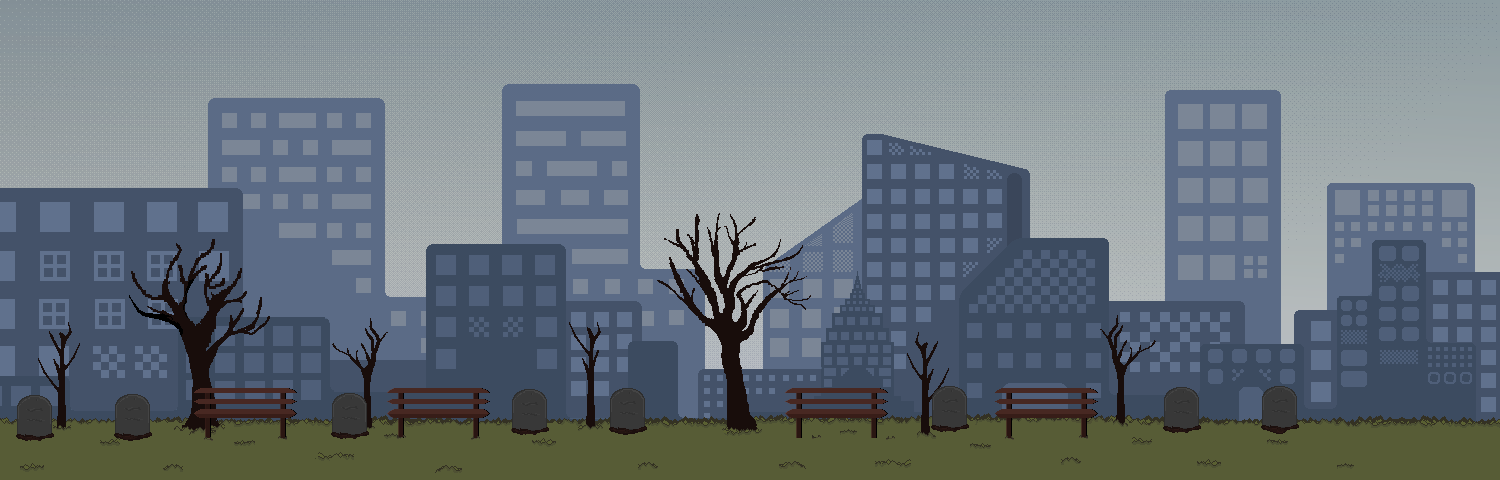
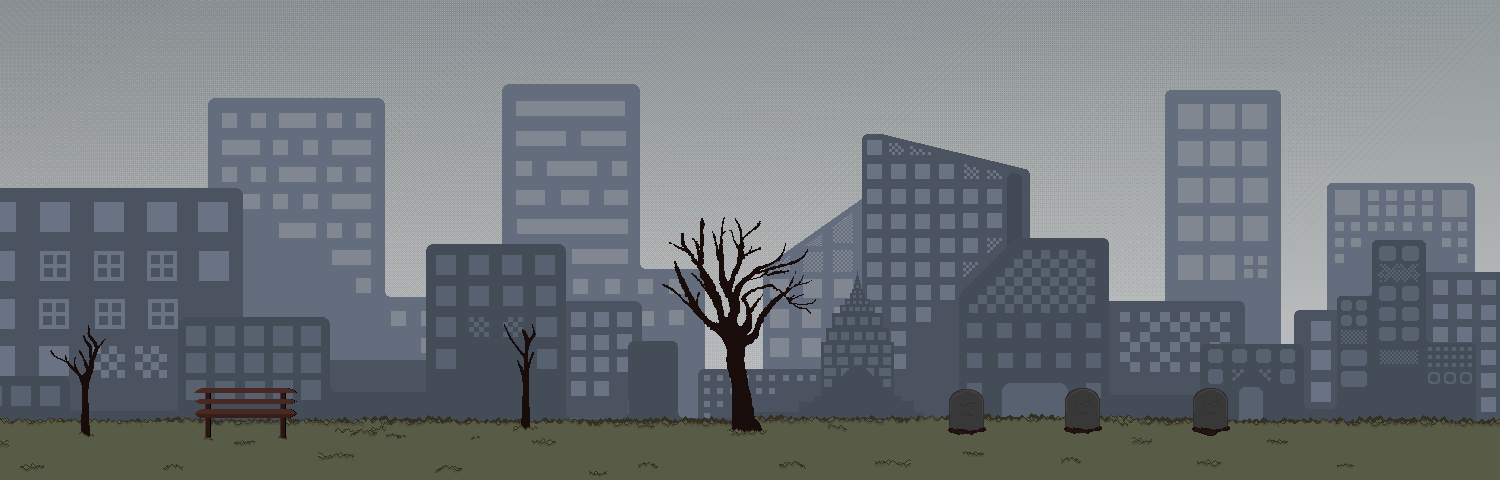
new rain and funeral background

diff --git a/src/scenes/Funeral.js b/src/scenes/Funeral.js
@@ -54,7 +54,11 @@ class Funeral extends Phaser.Scene{
 
         this.load.image('rip', './assets/Grave.png');
         this.load.image('dialog', './assets/images/dialog.png');
-        this.load.image('FuneralBack', './assets/Funeral-test.png');
+        this.load.image('FuneralBack', './assets/Funeral.png');
+        this.load.spritesheet('rain', './assets/Rain_Animation.png', {
+            frameWidth: 1500,
+            frameHeight: 480
+        })
     }
 
     create() {
@@ -118,6 +122,12 @@ class Funeral extends Phaser.Scene{
             frameRate: 4
         });
 
+        this.anims.create({
+            key: 'raindrop',
+            frames: this.anims.generateFrameNumbers('rain'),
+            frameRate: 20
+        });
+
 
 
 
@@ -141,6 +151,8 @@ class Funeral extends Phaser.Scene{
         this.tomb_sub = this.physics.add.staticSprite(1400, 430, 'rip');
         this.tomb_sub.alpha = 0;
         this.tomb_sub.body.setSize(120, 48);
+
+        this.rain = this.add.sprite(0, 0, 'rain').setOrigin(0, 0);
 
         //grandma NPC
         this.grandma = this.physics.add.sprite(620, 450, 'grandma');
@@ -183,7 +195,7 @@ class Funeral extends Phaser.Scene{
             if(Phaser.Input.Keyboard.JustDown(keyE)){ //if player input
                 if(this.hastalked) { //if talked to cousin4
                     this.sound.play('button');
-                    this.scene.start('puzzle2Scene');
+                    this.scene.start('puzzle1Scene');
                 } else {
                     this.warn = this.add.text(300, 330, "why are you ignoring the cousin4?", scoreConfig);
                 }
@@ -226,6 +238,7 @@ class Funeral extends Phaser.Scene{
         
         this.cousin3.anims.play('cousin3idle', true);
         this.cousin4.anims.play('cousin4idle', true);
+        this.rain.anims.play('raindrop', true);
 
         if(!isStop){
             if(isRight) {

diff --git a/src/scenes/Puzzle2.js b/src/scenes/Puzzle2.js
@@ -6,11 +6,21 @@ class Puzzle2 extends Phaser.Scene {
     preload() {
         this.load.tilemapTiledJSON('map2', 'assets/tilemaps/tilemap2.json')
         this.load.image('tiles3', 'assets/tilemaps/tileset3new.png');  //1024*1024
+        this.load.image('grave', './assets/tilemaps/grave.png');
+        this.load.image('flower', './assets/tilemaps/flower2.png');
+        this.load.image('pillar', './assets/tilemaps/heaven.png');
+        this.load.image('sky', './assets/tilemaps/sky.png');
     }
 
     create() {
         this.map = this.add.tilemap('map2'); 
-        let tiles3 = this.map.addTilesetImage('tileset3','tiles3');  // set tileset name
+        let tiles3 = this.map.addTilesetImage('tileset3new','tiles3');  // set tileset name
+        let sky = this.map.addTilesetImage('sky','sky');  // set tileset name
+        let flower = this.map.addTilesetImage('flower2','flower');  // set tileset name
+        let pillar = this.map.addTilesetImage('heaven','pillar');  // set tileset name
+        let grave = this.map.addTilesetImage('grave', 'grave');
+        let bglayer = this.map.createLayer('background',[sky]);  // set layer name
+        let decolayer = this.map.createLayer('decorations',[flower, pillar, grave]);  // set layer name
         let layer = this.map.createLayer('ground',[tiles3]);  // set layer name
         layer.setCollisionByProperty({ collides: true });
         this.physics.world.setBounds(0, 0, 1000, 1000);
@@ -48,7 +58,9 @@ class Puzzle2 extends Phaser.Scene {
     }
 
     update() {
-
+        if(Phaser.Input.Keyboard.JustDown(keyF)) {
+            this.scene.start('puzzle1Scene');
+        }
         this.main.update();
         
     }

diff --git a/src/scenes/Puzzle1.js b/src/scenes/Puzzle1.js
@@ -93,6 +93,7 @@ class Puzzle1 extends Phaser.Scene{
         keyE = this.input.keyboard.addKey(Phaser.Input.Keyboard.KeyCodes.E);
         keyS = this.input.keyboard.addKey(Phaser.Input.Keyboard.KeyCodes.S);
         keySPACE = this.input.keyboard.addKey(Phaser.Input.Keyboard.KeyCodes.SPACE);
+        keyF = this.input.keyboard.addKey(Phaser.Input.Keyboard.KeyCodes.F);
 
         //create groups for items
         this.spikegroup = this.physics.add.staticGroup({ //group for spike obstacle
@@ -343,6 +344,12 @@ class Puzzle1 extends Phaser.Scene{
     }
 
     update() {
+
+        if(Phaser.Input.Keyboard.JustDown(keyF)) {
+            this.isPass = true;
+            this.scene.start('puzzle2Scene');
+        }
+        
         this.main.update();
         this.shape.x = this.main.x;
         this.shape.y = this.main.y - 10;

diff --git a/src/main.js b/src/main.js
@@ -28,6 +28,7 @@ let scoreConfig = {
 
 //reserve key inputs
 let keyA, keyD, keyE, keyS, keySPACE;
+let keyF; //cheat code
 
 //moving status
 let isLeft, isRight, isJump, isStop = false;
